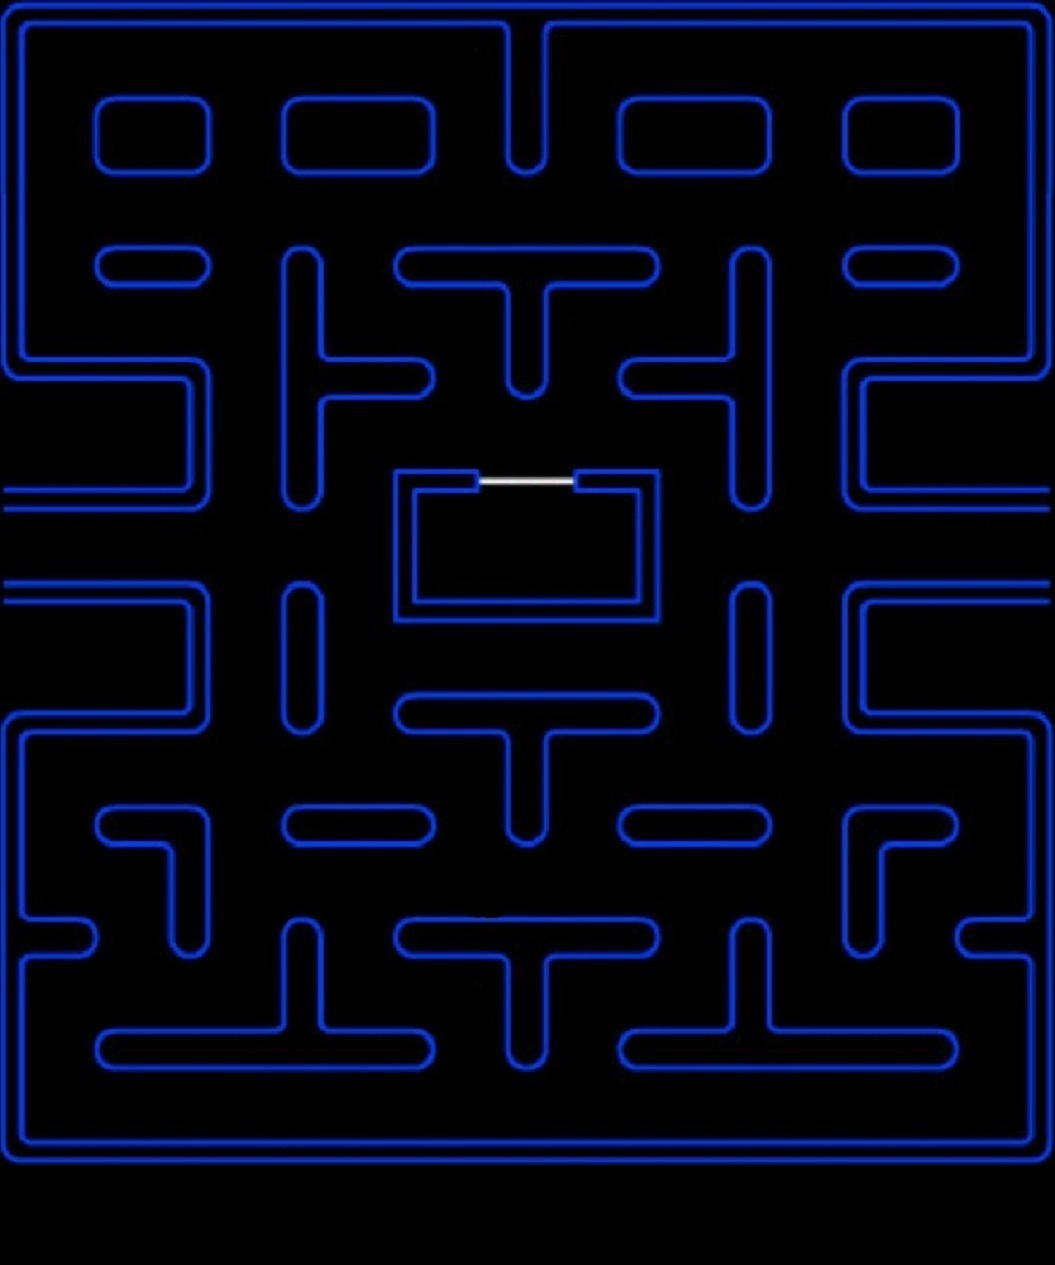
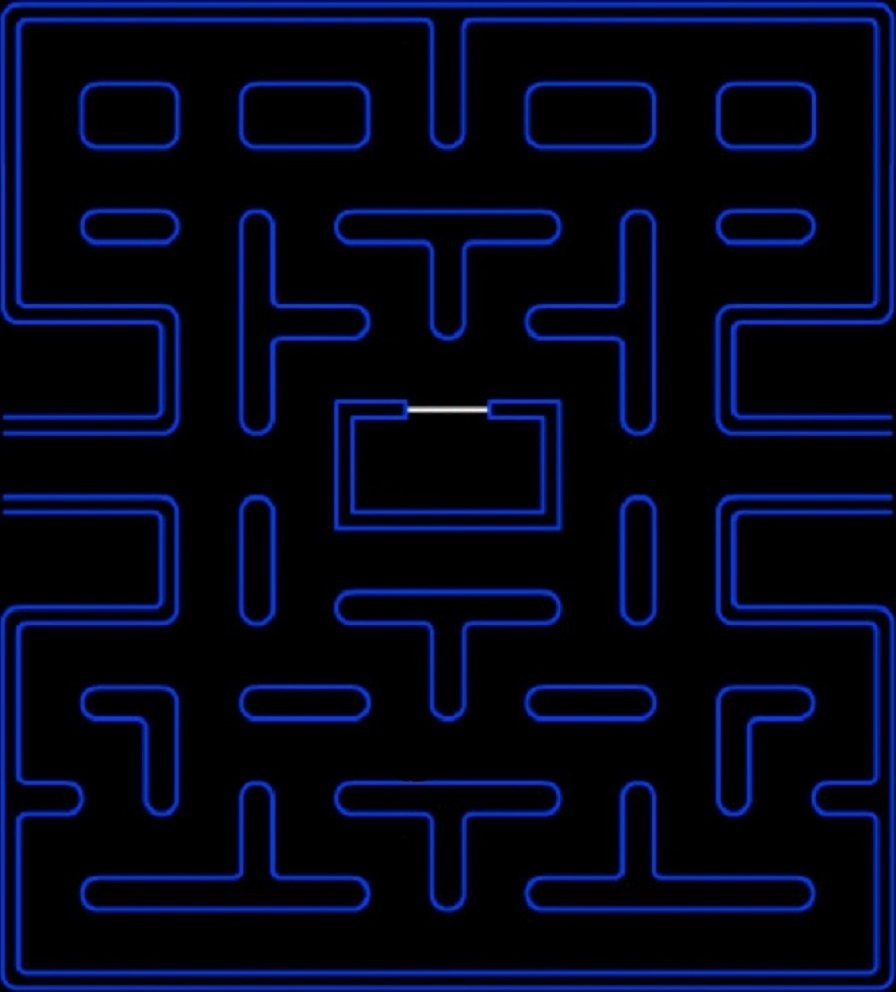
names packages to english and classic board

diff --git a/EPacman/src/epacman/maps/Board.java b/EPacman/src/epacman/maps/Board.java
@@ -11,9 +11,40 @@ import java.awt.Transparency;
 public class Board {
 
     private final SpritesSheet classicBoard = new SpritesSheet("/media/sprites/ClassicBoard.png", 32, 32, Transparency.TRANSLUCENT);
-    private final int[] map = {1, 1, 1, 1};
-    private final int mapAlto = 2;
-    private final int mapAncho = 2;
+    private final int[] map = {
+        0, 1, 1, 1, 1, 1, 1, 1, 1, 1, 1, 1, 1, 2, 3, 1, 1, 1, 1, 1, 1, 1, 1, 1, 1, 1, 1, 4,
+        5, 6, 6, 6, 6, 6, 6, 6, 6, 6, 6, 6, 6, 7, 7, 6, 6, 6, 6, 6, 6, 6, 6, 6, 6, 6, 6, 5,
+        5, 6, 9, 10, 10, 11, 6, 9, 10, 10, 10, 11, 6, 7, 7, 6, 9, 10, 10, 10, 11, 6, 9, 10, 10, 11, 6, 5,
+        5, 6, 7, 6, 6, 7, 6, 7, 6, 6, 6, 7, 6, 7, 7, 6, 7, 6, 6, 6, 7, 6, 7, 6, 6, 7, 6, 5,
+        5, 6, 12, 10, 10, 13, 6, 12, 10, 10, 10, 13, 6, 12, 13, 6, 12, 10, 10, 10, 13, 6, 12, 10, 10, 13, 6, 5,
+        5, 6, 6, 6, 6, 6, 6, 6, 6, 6, 6, 6, 6, 6, 6, 6, 6, 6, 6, 6, 6, 6, 6, 6, 6, 6, 6, 5,
+        5, 6, 9, 10, 10, 11, 6, 9, 11, 6, 9, 10, 10, 10, 10, 10, 10, 11, 6, 9, 11, 6, 9, 10, 10, 11, 6, 5,
+        5, 6, 12, 10, 10, 13, 6, 7, 7, 6, 12, 10, 10, 11, 9, 10, 10, 13, 6, 7, 7, 6, 12, 10, 10, 13, 6, 5,
+        5, 6, 6, 6, 6, 6, 6, 7, 7, 6, 6, 6, 6, 7, 7, 6, 6, 6, 6, 7, 7, 6, 6, 6, 6, 6, 6, 5,
+        16, 1, 1, 1, 1, 4, 6, 7, 12, 10, 10, 11, 6, 7, 7, 6, 9, 10, 10, 13, 7, 6, 0, 1, 1, 1, 1, 14,
+        6, 6, 6, 6, 6, 5, 6, 7, 9, 10, 10, 13, 6, 12, 13, 6, 12, 10, 10, 11, 7, 6, 5, 6, 6, 6, 6, 6,
+        6, 6, 6, 6, 6, 5, 6, 7, 7, 6, 6, 6, 6, 6, 6, 6, 6, 6, 6, 7, 7, 6, 5, 6, 6, 6, 6, 6,
+        6, 6, 6, 6, 6, 5, 6, 7, 7, 6, 0, 1, 19, 10, 10, 20, 1, 4, 6, 7, 7, 6, 5, 6, 6, 6, 6, 6,
+        1, 1, 1, 1, 1, 14, 6, 12, 13, 6, 5, 6, 6, 6, 6, 6, 6, 5, 6, 12, 13, 6, 16, 1, 1, 1, 1, 1,
+        6, 6, 6, 6, 6, 6, 6, 6, 6, 6, 5, 6, 6, 6, 6, 6, 6, 5, 6, 6, 6, 6, 6, 6, 6, 6, 6, 6,
+        1, 1, 1, 1, 1, 4, 6, 9, 11, 6, 5, 6, 6, 6, 6, 6, 6, 5, 6, 9, 11, 6, 0, 1, 1, 1, 1, 1,
+        6, 6, 6, 6, 6, 5, 6, 7, 7, 6, 16, 1, 1, 1, 1, 1, 1, 14, 6, 7, 7, 6, 5, 6, 6, 6, 6, 6,
+        6, 6, 6, 6, 6, 5, 6, 7, 7, 6, 6, 6, 6, 6, 6, 6, 6, 6, 6, 7, 7, 6, 5, 6, 6, 6, 6, 6,
+        6, 6, 6, 6, 6, 5, 6, 7, 7, 6, 9, 10, 10, 10, 10, 10, 10, 11, 6, 7, 7, 6, 5, 6, 6, 6, 6, 6,
+        0, 1, 1, 1, 1, 14, 6, 12, 13, 6, 12, 10, 10, 11, 9, 10, 10, 13, 6, 12, 13, 6, 16, 1, 1, 1, 1, 4,
+        5, 6, 6, 6, 6, 6, 6, 6, 6, 6, 6, 6, 6, 7, 7, 6, 6, 6, 6, 6, 6, 6, 6, 6, 6, 6, 6, 5,
+        5, 6, 9, 10, 10, 11, 6, 9, 10, 10, 10, 11, 6, 7, 7, 6, 9, 10, 10, 10, 11, 6, 9, 10, 10, 11, 6, 5,
+        5, 6, 12, 10, 11, 7, 6, 12, 10, 10, 10, 13, 6, 12, 13, 6, 12, 10, 10, 10, 13, 6, 7, 9, 10, 13, 6, 5,
+        5, 6, 6, 6, 7, 7, 6, 6, 6, 6, 6, 6, 6, 6, 6, 6, 6, 6, 6, 6, 6, 6, 7, 7, 6, 6, 6, 5,
+        8, 10, 11, 6, 7, 7, 6, 9, 11, 6, 9, 10, 10, 10, 10, 10, 10, 11, 6, 9, 11, 6, 7, 7, 6, 9, 10, 15,
+        17, 10, 13, 6, 12, 13, 6, 7, 7, 6, 12, 10, 10, 11, 9, 10, 10, 13, 6, 7, 7, 6, 12, 13, 6, 12, 10, 18,
+        5, 6, 6, 6, 6, 6, 6, 7, 7, 6, 6, 6, 6, 7, 7, 6, 6, 6, 6, 7, 7, 6, 6, 6, 6, 6, 6, 5,
+        5, 6, 9, 10, 10, 10, 10, 13, 12, 10, 10, 11, 6, 7, 7, 6, 9, 10, 10, 13, 12, 10, 10, 10, 10, 11, 6, 5,
+        5, 6, 12, 10, 10, 10, 10, 10, 10, 10, 10, 13, 6, 12, 13, 6, 12, 10, 10, 10, 10, 10, 10, 10, 10, 13, 6, 5,
+        5, 6, 6, 6, 6, 6, 6, 6, 6, 6, 6, 6, 6, 6, 6, 6, 6, 6, 6, 6, 6, 6, 6, 6, 6, 6, 6, 5,
+        16, 1, 1, 1, 1, 1, 1, 1, 1, 1, 1, 1, 1, 1, 1, 1, 1, 1, 1, 1, 1, 1, 1, 1, 1, 1, 1, 14};
+    private final int mapAlto = 31;
+    private final int mapAncho = 28;
 
     public void update() {
 
@@ -22,7 +53,7 @@ public class Board {
     public void paint(final Graphics g) {
         for (int i = 0; i < mapAlto; i++) {
             for (int j = 0; j < mapAncho; j++) {
-                g.drawImage(classicBoard.getSprite(map[i * j + mapAncho]).getImagen(), j * 32, i * 32, null);
+                g.drawImage(classicBoard.getSprite(map[j + (i * mapAncho)]).getImagen(), j * 32, i * 32, null);
             }
         }
     }

diff --git a/EPacman/src/epacman/sprites/SpritesSheet.java b/EPacman/src/epacman/sprites/SpritesSheet.java
@@ -1,7 +1,7 @@
 package epacman.sprites;
 
-import java.awt.image.BufferedImage;
 import epacman.tools.ResourcesLoader;
+import java.awt.image.BufferedImage;
 
 public class SpritesSheet {
 
@@ -11,21 +11,21 @@ public class SpritesSheet {
 
     final private Sprite[] sprites;
 
-    private static final ResourcesLoader cargador = new ResourcesLoader();
+    private static final ResourcesLoader loader = new ResourcesLoader();
 
     public SpritesSheet(final String ruta, final int anchoSprites, final int altoSprites, final int transparente) {
-        BufferedImage imagen;
-        imagen = cargador.cargarImagenCompatible(ruta, transparente);
+        BufferedImage image;
+        image = loader.loadImage(ruta, transparente);
 
-        anchoHojaEnPixeles = imagen.getWidth();
-        altoHojaEnPixeles = imagen.getHeight();
+        anchoHojaEnPixeles = image.getWidth();
+        altoHojaEnPixeles = image.getHeight();
         anchoHojaEnSprites = anchoHojaEnPixeles / anchoSprites;
         altoHojaEnSprites = altoHojaEnPixeles / altoSprites;
         this.anchoSprites = anchoSprites;
         this.altoSprites = altoSprites;
 
         sprites = new Sprite[anchoHojaEnSprites * altoHojaEnSprites];
-        rellenarSprites(imagen);
+        rellenarSprites(image);
     }
 
     private void rellenarSprites(final BufferedImage imagen) {

diff --git a/EPacman/src/epacman/tools/ResourcesLoader.java b/EPacman/src/epacman/tools/ResourcesLoader.java
@@ -16,7 +16,7 @@ public class ResourcesLoader {
     private BufferedImage bfImage = null;
     private GraphicsConfiguration graphicsConfig;
     
-    public BufferedImage cargarImagenCompatible(final String ruta, final int transparencia){
+    public BufferedImage loadImage(final String ruta, final int transparencia){
         try {
             image = ImageIO.read(getClass().getResource(ruta));
         } catch (IOException ex) {

diff --git a/EPacman/src/epacman/EPacman.java b/EPacman/src/epacman/EPacman.java
@@ -77,7 +77,7 @@ public class EPacman {
     }
 
     public static void main(String[] args) {
-        EPacman juego = new EPacman("E-Pacman", 496, 448);
+        EPacman juego = new EPacman("E-Pacman", 32*28, 32*31);
         juego.iniciarJuego();
         juego.iniciarBuclePrincipal();
     }
